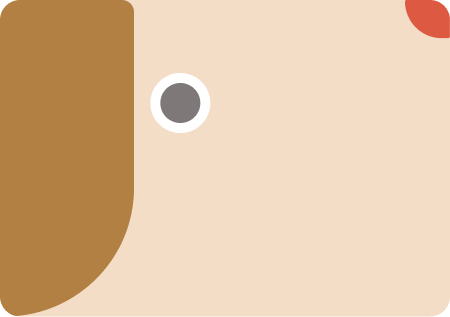
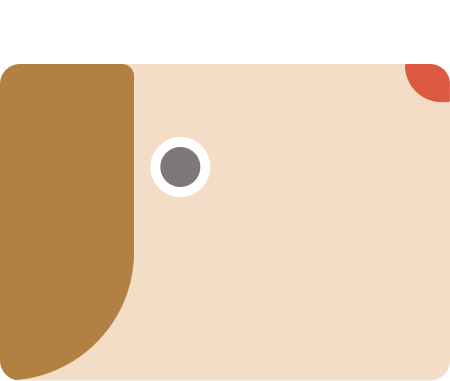
0914-1559-n

diff --git a/nora/pet-edit.html b/nora/pet-edit.html
@@ -191,7 +191,7 @@
                 <form class="form needs-validation" name="form1" method="post" onsubmit="checkForm(); return false;">
 
                     <div class="diypart">
-                        <img src="./img_n/pet/dog-mb.png" alt="">
+                        <img class="img-body" src="./img_n/pet/cat-mb.png" alt="">
                         <div class="petname-box pet-box  mb-3  d-flex ">
                             <label for="name" class="form-label d-flex align-items-center">毛孩姓名</label>
                             <input type="name" disabled="disabled" class="form-control" id="name" name="name" placeholder="李菜菜"  required>
@@ -230,6 +230,62 @@
             </div>
           </div>
         </div>
+        <div class="col mx-5 mb-4 ">
+            <div class="card ">
+              <div class="up-img">
+                  <div class="imgbox">
+                      <img src="./img_n/pet/photo.png" alt="" class="photo" >
+                  </div>
+                  <!-- <div class="plusbox d-flex flex-column align-items-center">
+                      <img src="./img_n/pet/plus.png" alt="">
+                      <p>新增毛孩照片</p>
+                  </div> -->
+              
+              </div>
+  
+              <div class="card-body1">
+                  <form class="form needs-validation" name="form1" method="post" onsubmit="checkForm(); return false;">
+  
+                      <div class="diypart">
+                          <img class="img-body" src="./img_n/pet/dog-mb.png" alt="">
+                          <div class="petname-box pet-box  mb-3  d-flex ">
+                              <label for="name" class="form-label d-flex align-items-center">毛孩姓名</label>
+                              <input type="name" disabled="disabled" class="form-control" id="name" name="name" placeholder="李菜菜"  required>
+                          </div>
+                          <div class="petname-box pet-box pet-box3 mb-3  d-flex ">
+                              <label for="name" class="form-label d-flex align-items-center">種類</label>
+                              <input type="name" disabled="disabled" class="form-control" id="name" name="name" placeholder="狗狗"  required>
+                          </div>
+                          <div class="petname-box pet-box pet-box4  mb-3  d-flex ">
+                              <label for="name" class="form-label d-flex align-items-center">性別</label>
+                              <input type="name" disabled="disabled" class="form-control" id="name" name="name" placeholder="女生"  required>
+                          </div>
+                          <div class="petname-box pet-box pet-box2  mb-3  d-flex ">
+                              <label for="name" class="form-label d-flex align-items-center">年齡</label>
+                              <input type="name" disabled="disabled" class="form-control" id="name" name="name" placeholder="成年"  required>
+                          </div>
+                          
+                          
+                      </div>
+  
+                      <div class="d-flex justify-content-end align-items-center mt-3">
+                          <div class="btn-group">
+                            <button type="button" class="btn btn-sm btn-outline-secondary"><img src="./img_n/pet/Pencil.svg" class="fixbox"     alt=""></button>
+                            <div class="btn-box1   ">
+                              <button type="submit" class="btn  btn-sm btn-sm-1"><img src="./img_n/pet/Vector.svg" class="fixbox"     alt=""></button>
+                            
+                              
+                          
+                  
+                          </div>
+                          </div>
+                          
+                        </div>
+                  </form>
+                
+              </div>
+            </div>
+          </div>
         
        
         

diff --git a/nora/css_n/pet.css b/nora/css_n/pet.css
@@ -102,6 +102,17 @@
     box-sizing: border-box;
 }
 
+.img-body{
+    position: absolute;
+    top: -63px;
+    left: 0;
+}
+
+.img-body1{
+    position: absolute;
+    top: -80px;
+    left: 0;
+}
 
 /* form{
     width: 326px;
@@ -115,19 +126,19 @@
     
     height: 30px;
     position: absolute;
-    top: 60px;
+    top: 40px;
     right: 10px;
 }
 
 .pet-box2{
-    top: 100px;
+    top: 80px;
 }
 .pet-box3{
-    top: 140px;
+    top: 120px;
 
 }
 .pet-box4{
-    top: 180px;
+    top: 160px;
 }
 
 .form-label{
@@ -141,6 +152,10 @@
     width: 80px;
     height: 30px;
     font-size: 14px;
+}
+
+.btn-group{
+    padding-top: 225px;
 }
 
 .btn{
@@ -307,11 +322,12 @@
 
 .btn-group1 {
     position: relative;
+    padding-bottom: 255px;
 }
 
 .btn-group1 .btn-box {
     position: absolute;
-    top: 270px;
+    top: 520px;
     left: 110px;
     z-index: 20;
 }
@@ -328,7 +344,7 @@
 
 
 
-@media (min-width: 1200px){
+@media (min-width: 1400px){
     .album .row{
         justify-content: start;
         margin-left: 25px;
@@ -404,6 +420,10 @@
     
 }
 
+.col0{
+    /* width: 600px; */
+}
+
 
 
 .btn-group1 {
@@ -412,7 +432,7 @@
 
 .btn-group1 .btn-box {
     position: absolute;
-    top: -160px;
+    top: 150px;
     left: 790px;
     z-index: 20;
 }
@@ -477,7 +497,7 @@
         top: 125px;
     }
     .card1 .pet-box3{
-        top: 165px;
+        top: 170px;
     
     }
     .card1 .pet-box4{
@@ -487,7 +507,7 @@
 
 }
 
-@media (max-width: 1200px){
+@media (max-width: 1400px){
     .album .row{
         justify-content: center;
     }
@@ -504,5 +524,22 @@
         left: 115px;
         cursor: pointer;
     }
+
+}
+
+@media (min-width: 1000px) and (max-width: 1400px){
+
+    .btn-group1 {
+        position: relative;
+    }
+    
+    .btn-group1 .btn-box {
+        position: absolute;
+        top: 0px;
+        left: 530px;
+        z-index: 20;
+    }
+    
+    
 
 }

diff --git a/nora/pet.html b/nora/pet.html
@@ -191,7 +191,7 @@
                 <form class="form needs-validation" name="form1" method="post" onsubmit="checkForm(); return false;">
 
                     <div class="diypart">
-                        <img src="./img_n/pet/dog-mb.png" alt="">
+                        <img  class="img-body" src="./img_n/pet/dog-mb.png" alt="">
                         <div class="petname-box pet-box  mb-3  d-flex ">
                             <label for="name" class="form-label d-flex align-items-center">毛孩姓名</label>
                             <input type="name" disabled="disabled" class="form-control" id="name" name="name" placeholder="李菜菜"  required>
@@ -245,7 +245,7 @@
                   <form class="form needs-validation" name="form1" method="post" onsubmit="checkForm(); return false;">
   
                       <div class="diypart">
-                          <img src="./img_n/pet/dog-mb.png" alt="">
+                          <img class="img-body" src="./img_n/pet/cat-mb.png" alt="">
                           <div class="petname-box pet-box  mb-3  d-flex ">
                               <label for="name" class="form-label d-flex align-items-center">毛孩姓名</label>
                               <input type="name" disabled="disabled" class="form-control" id="name" name="name" placeholder="李菜菜"  required>

diff --git a/nora/pet-diy.html b/nora/pet-diy.html
@@ -181,8 +181,8 @@
                 <form class="form needs-validation" name="form1" method="post" onsubmit="checkForm(); return false;">
 
                     <div class="diypart">
-                        <img src="./img_n/pet/dog-mb.png" alt="" class="card-mb">
-                        <img src="./img_n/pet/dog.png" alt="" class="card-pc">
+                        <img src="./img_n/pet/dog-mb.png" alt="" class="card-mb img-body">
+                        <img src="./img_n/pet/dog.png" alt="" class="card-pc img-body1">
                         <div class="petname-box pet-box  mb-3  d-flex ">
                             <label for="name" class="form-label d-flex align-items-center">毛孩姓名</label>
                             <input type="name" disabled="disabled" class="form-control" id="name" name="name" placeholder="李菜菜"  required>
@@ -215,7 +215,7 @@
             </div>
           </div>
         </div>
-        <div class="col mx-5 mb-4 ">
+        <div class="col col0 mx-5 mb-4 ">
             <div class="card2
              ">
               <div class="control flex-column  align-items-center
@@ -327,10 +327,11 @@
     <script>
 
 
+
+
+
+
     </script>
-</body>
-
-</html>
 
 
 
@@ -338,7 +339,8 @@
 
 
 
-</script>
+
+
 </body>
 
 </html>

diff --git a/nora/forget.html b/nora/forget.html
@@ -42,7 +42,7 @@
                             
                         </div>
                         <div class="btn-box1 d-flex flex-column  ">
-                            <button type="submit" class="btn btn-primary"> <p>送出驗證</p> </button> 
+                            <button type="submit" class="btn btn-primary"> <p>送出</p> </button> 
                         </div>
                         
                     </div>

diff --git a/nora/css_n/login.css b/nora/css_n/login.css
@@ -287,3 +287,12 @@ a{
     padding-top: 80px;
     margin-bottom: 90px;
 }
+
+.btn:focus, 
+.btn:active:focus,
+.btn.active:focus,
+.btn.focus,
+.btn:active.focus,
+.btn.active.focus {
+outline: none !important; box-shadow:none !important; 
+}

diff --git a/nora/css_n/register.css b/nora/css_n/register.css
@@ -515,3 +515,11 @@ a{
 
 
 
+.btn:focus, 
+.btn:active:focus,
+.btn.active:focus,
+.btn.focus,
+.btn:active.focus,
+.btn.active.focus {
+outline: none !important; box-shadow:none !important; 
+}
